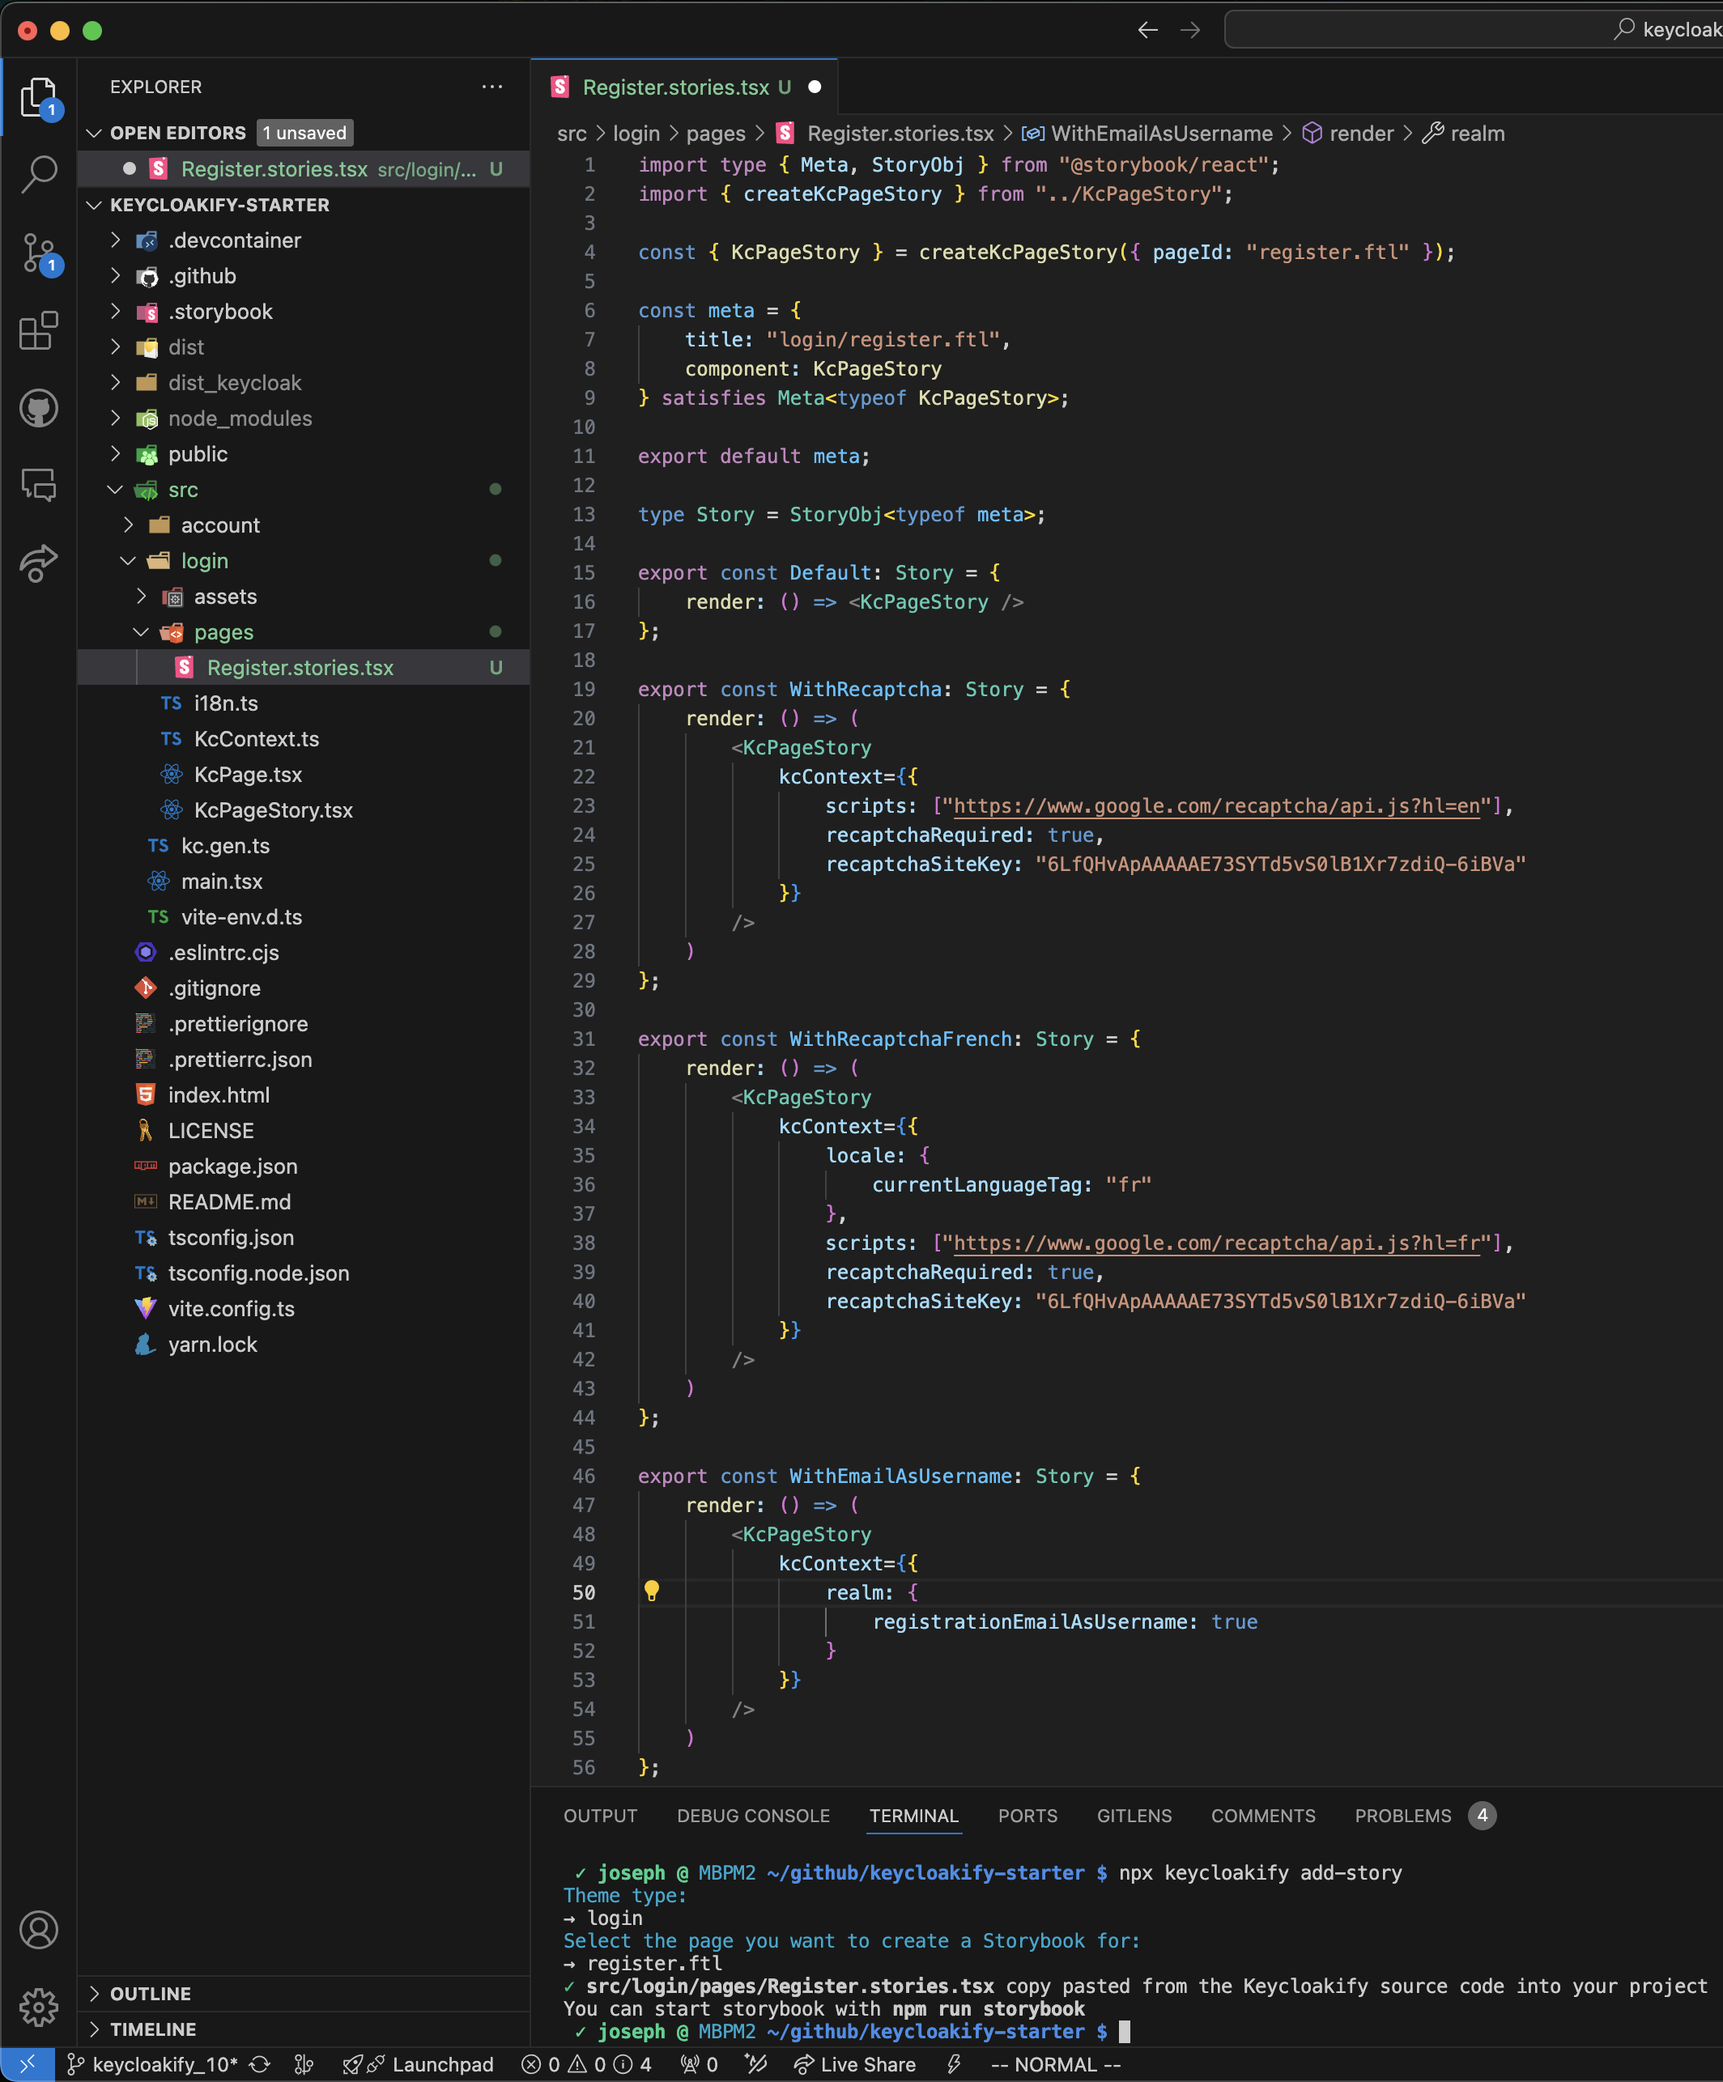
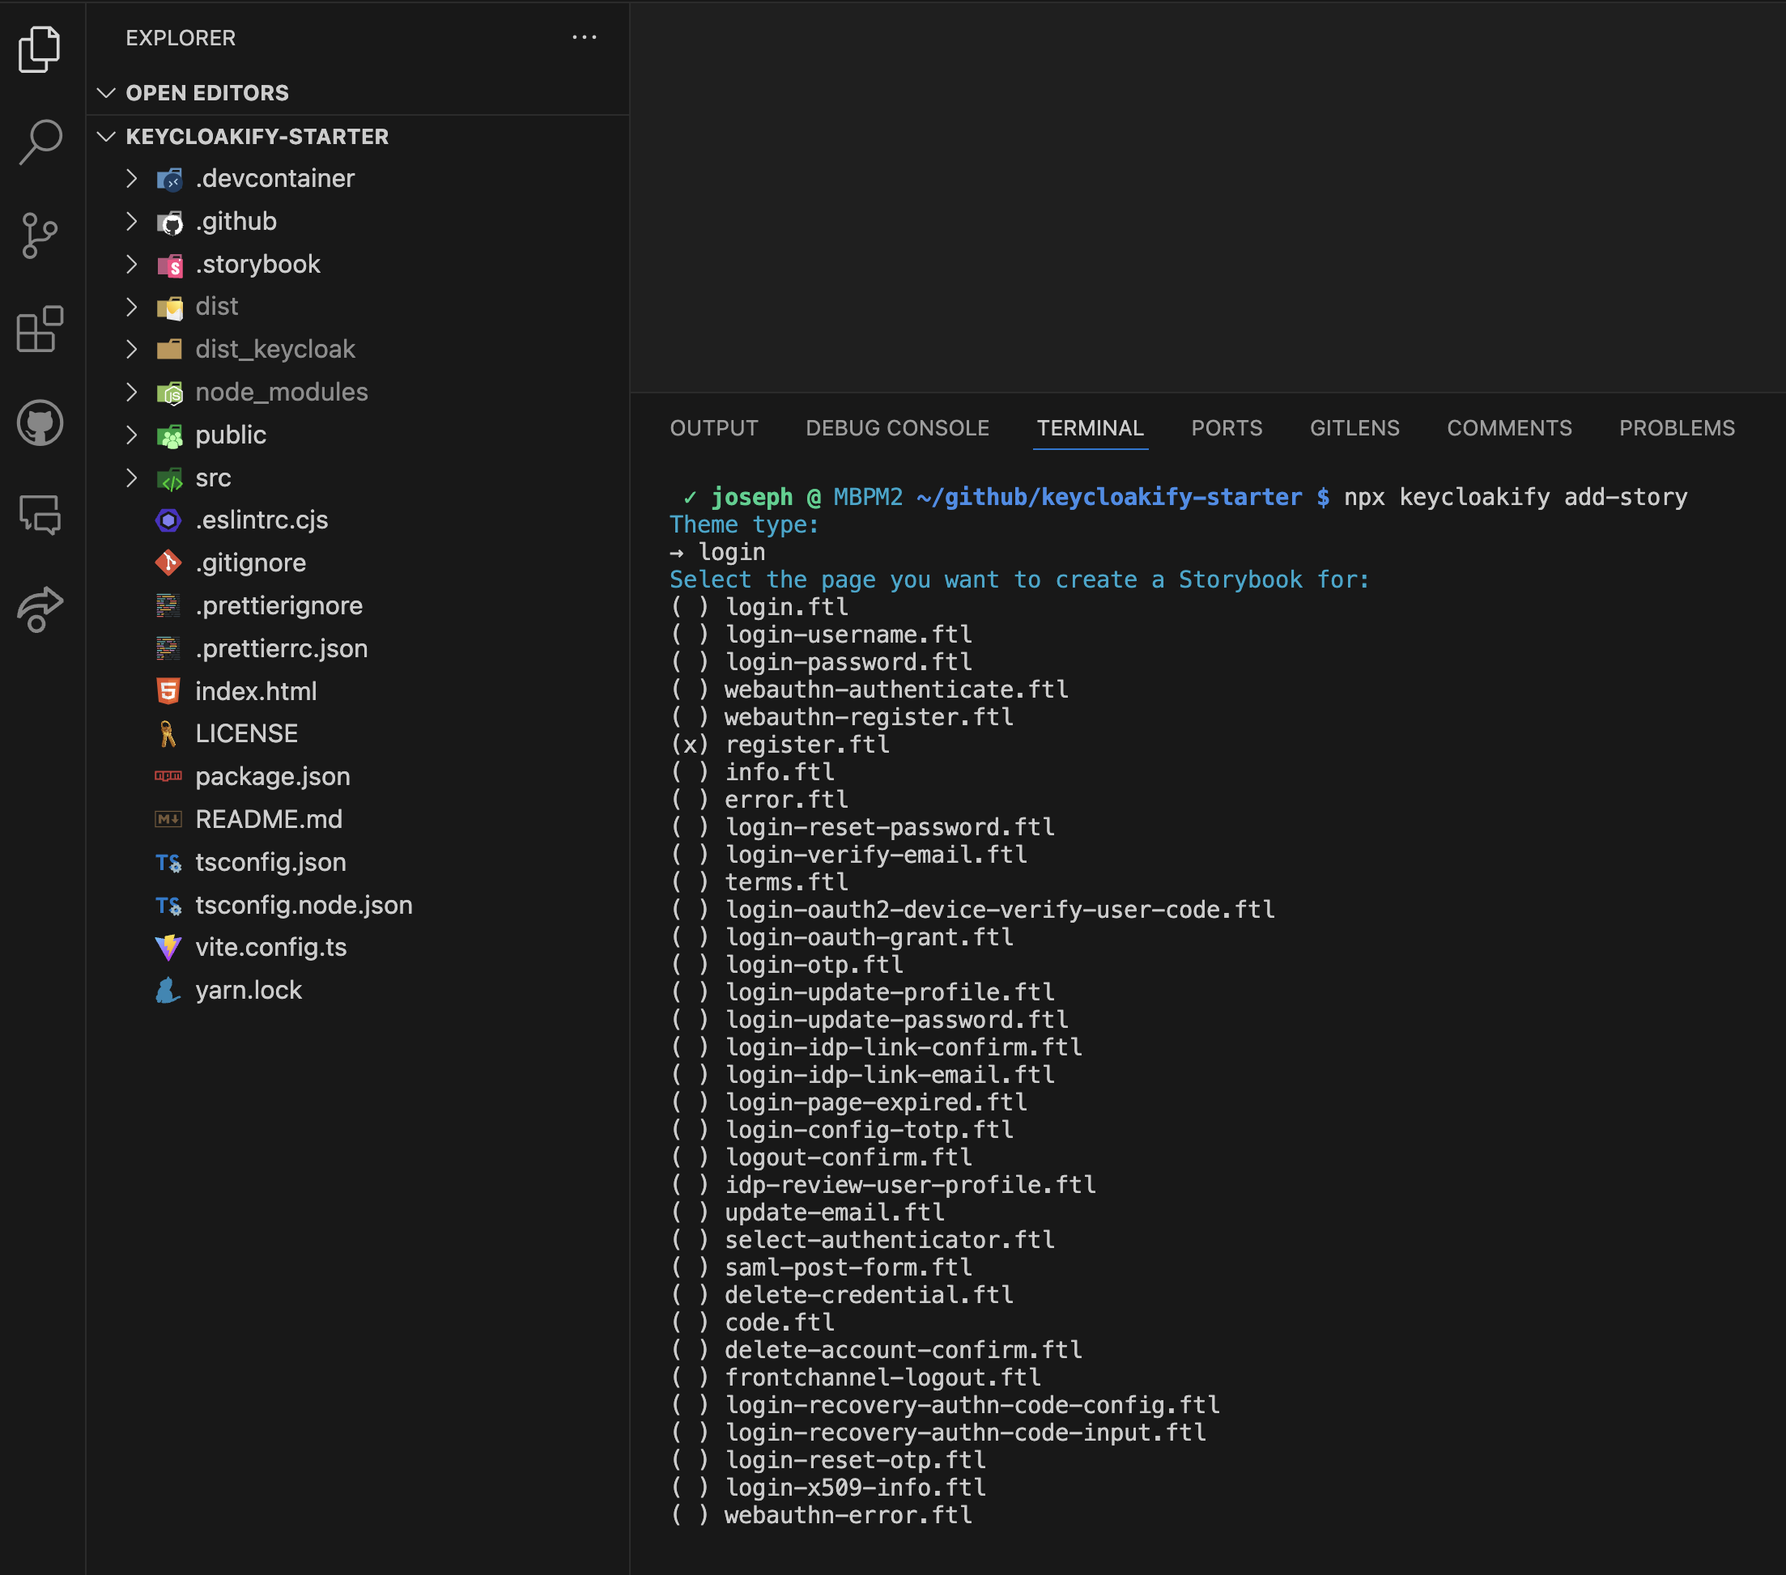
GITBOOK-40: No subject

diff --git a/testing-your-theme/with-vite-or-webpack-in-dev-mode.md b/testing-your-theme/with-vite-or-webpack-in-dev-mode.md
@@ -1,2 +1,80 @@
-# with yarn dev
+# With Vite or Webpack in dev mode
 
+If you don't have Storybook in your project you can also test your theme with the dev server. &#x20;
+
+To do that, just uncomment the lines in the main.tsx (index.tsx in Webpack)
+
+<pre class="language-jsx" data-title="src/main.tsx"><code class="lang-jsx">/* eslint-disable react-refresh/only-export-components */
+import { createRoot } from "react-dom/client";
+import { StrictMode, lazy, Suspense } from "react";
+
+<strong>// The following block can be uncommented to test a specific page with `yarn dev`
+</strong><strong>// Don't forget to comment back or your bundle size will increase
+</strong><strong>import { getKcContextMock } from "./login/KcPageStory";
+</strong><strong>
+</strong><strong>if (import.meta.env.DEV) {
+</strong><strong>    window.kcContext = getKcContextMock({
+</strong><strong>        pageId: "register.ftl",
+</strong><strong>        overrides: {}
+</strong><strong>    });
+</strong><strong>}
+</strong>
+const KcLoginThemePage = lazy(() => import("./login/KcPage"));
+const KcAccountThemePage = lazy(() => import("./account/KcPage"));
+
+createRoot(document.getElementById("root")!).render(
+    &#x3C;StrictMode>
+        &#x3C;Suspense>
+            {(() => {
+                switch (window.kcContext?.themeType) {
+                    case "login":
+                        return &#x3C;KcLoginThemePage kcContext={window.kcContext} />;
+                    case "account":
+                        return &#x3C;KcAccountThemePage kcContext={window.kcContext} />;
+                }
+                return &#x3C;h1>No Keycloak Context&#x3C;/h1>;
+            })()}
+        &#x3C;/Suspense>
+    &#x3C;/StrictMode>
+);
+</code></pre>
+
+The pageId parameter of the getKcContextMock let you decide what page you want to test.  \
+The overrides parameter let you modify the the default kcContext mock for the page. \
+\
+For example you can set:&#x20;
+
+```tsx
+window.kcContext = getKcContextMock({
+    pageId: "login.ftl",
+    overrides: {
+        locale: {
+            currentLanguageTag: "zh-CN"
+        }
+    }
+});
+```
+
+For rendering the Login page in Chinese.
+
+You can then run the developement server with:
+
+{% tabs %}
+{% tab title="Vite" %}
+```bash
+npm run dev
+```
+{% endtab %}
+
+{% tab title="Webpack (Create React App)" %}
+```bash
+npm run start
+```
+{% endtab %}
+{% endtabs %}
+
+<figure><img src="../.gitbook/assets/image.png" alt=""><figcaption></figcaption></figure>
+
+{% hint style="warning" %}
+When you're done testing, don't forget to comment back the import of the mock. Forgeting to do so will negatively impact you the bundle size of your pages. &#x20;
+{% endhint %}

diff --git a/testing-your-theme/in-storybook.md b/testing-your-theme/in-storybook.md
@@ -18,9 +18,9 @@ It will enables you to select the pages you want to add stories for.&#x20;
 
 You can run this command multiple times to add stories for multiple pages.
 
-<figure><img src="../.gitbook/assets/image.png" alt=""><figcaption></figcaption></figure>
-
 <figure><img src="../.gitbook/assets/image (1).png" alt=""><figcaption></figcaption></figure>
+
+<figure><img src="../.gitbook/assets/image (1) (1).png" alt=""><figcaption></figcaption></figure>
 
 Once your added a few stories you can start Storybook locally with:
 

diff --git a/importing-assets.md b/importing-assets.md
@@ -59,7 +59,7 @@ Then all we have to do is apply the Font font familly, in this example we will u
 
 That's it!
 
-<figure><img src=".gitbook/assets/image (1) (1).png" alt="" width="375"><figcaption><p>Playwrite NL succesfully applied to the header</p></figcaption></figure>
+<figure><img src=".gitbook/assets/image (1) (1) (1).png" alt="" width="375"><figcaption><p>Playwrite NL succesfully applied to the header</p></figcaption></figure>
 
 ## Using self hosted fonts
 
